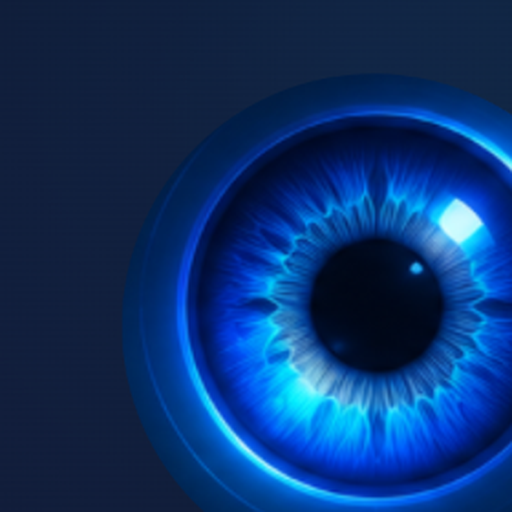
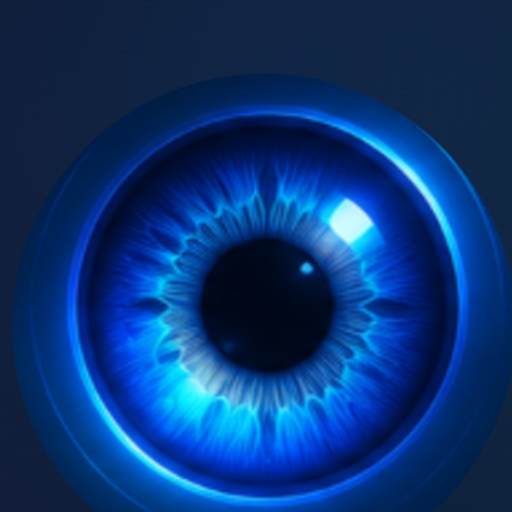
fix(iris): ajustar escala e alinhamento da home

diff --git a/assets/iris54-fix.css b/assets/iris54-fix.css
@@ -28,3 +28,13 @@
 .iris54-floating-brand img{display:block!important;width:42px!important;height:42px!important;max-width:42px!important;max-height:42px!important;object-fit:contain!important;border-radius:50%!important}
 .iris54-brand-text{font-size:12px!important;line-height:1.15!important;color:#dbeafe!important;white-space:nowrap!important;max-width:90px!important;overflow:hidden!important}
 @media(max-width:640px){.iris54-hero{min-height:680px;padding:70px 14px 90px}.iris54-central-eye{width:190px;height:190px}.iris54-ocular-eye-wrapper{width:175px;height:175px}.iris54-tagline{font-size:1.65rem}.iris54-command-bar{width:94vw;min-height:62px}.iris54-quick-nav{width:94vw;gap:8px}.iris54-quick-btn{min-width:0;flex:1 1 42%;padding:11px 8px}.iris54-floating-brand{top:10px!important;left:10px!important;padding:5px 8px!important}.iris54-floating-brand .iris54-brand-eye-real,.iris54-brand-eye-real,.iris54-floating-brand img{width:34px!important;height:34px!important;max-width:34px!important;max-height:34px!important}.iris54-brand-text{display:none!important}}
+
+/* Final proportional corrections */
+.iris54-floating-brand .iris54-brand-eye-real{width:30px!important;height:30px!important;max-width:30px!important;max-height:30px!important}
+.iris54-floating-brand{padding:5px 8px!important;gap:7px!important;border-radius:10px!important}
+.iris54-quick-nav{width:100%!important;max-width:1100px!important;flex-wrap:nowrap!important;gap:10px!important}
+.iris54-quick-btn{flex:1 1 0!important;min-width:0!important;height:54px!important;padding:8px 10px!important;white-space:nowrap!important;font-size:.92rem!important}
+.iris54-central-eye{width:230px!important;height:230px!important}
+.iris54-central-eye .iris54-ocular-eye-frame,.iris54-central-eye .iris54-ocular-eye-img{width:100%!important;height:100%!important}
+@media(max-width:900px) and (min-width:641px){.iris54-quick-btn{font-size:.78rem!important;padding:8px 5px!important}}
+@media(max-width:640px){.iris54-floating-brand .iris54-brand-eye-real{width:24px!important;height:24px!important;max-width:24px!important;max-height:24px!important}.iris54-quick-nav{flex-wrap:wrap!important;width:94vw!important}.iris54-quick-btn{flex:1 1 42%!important;height:48px!important}}
